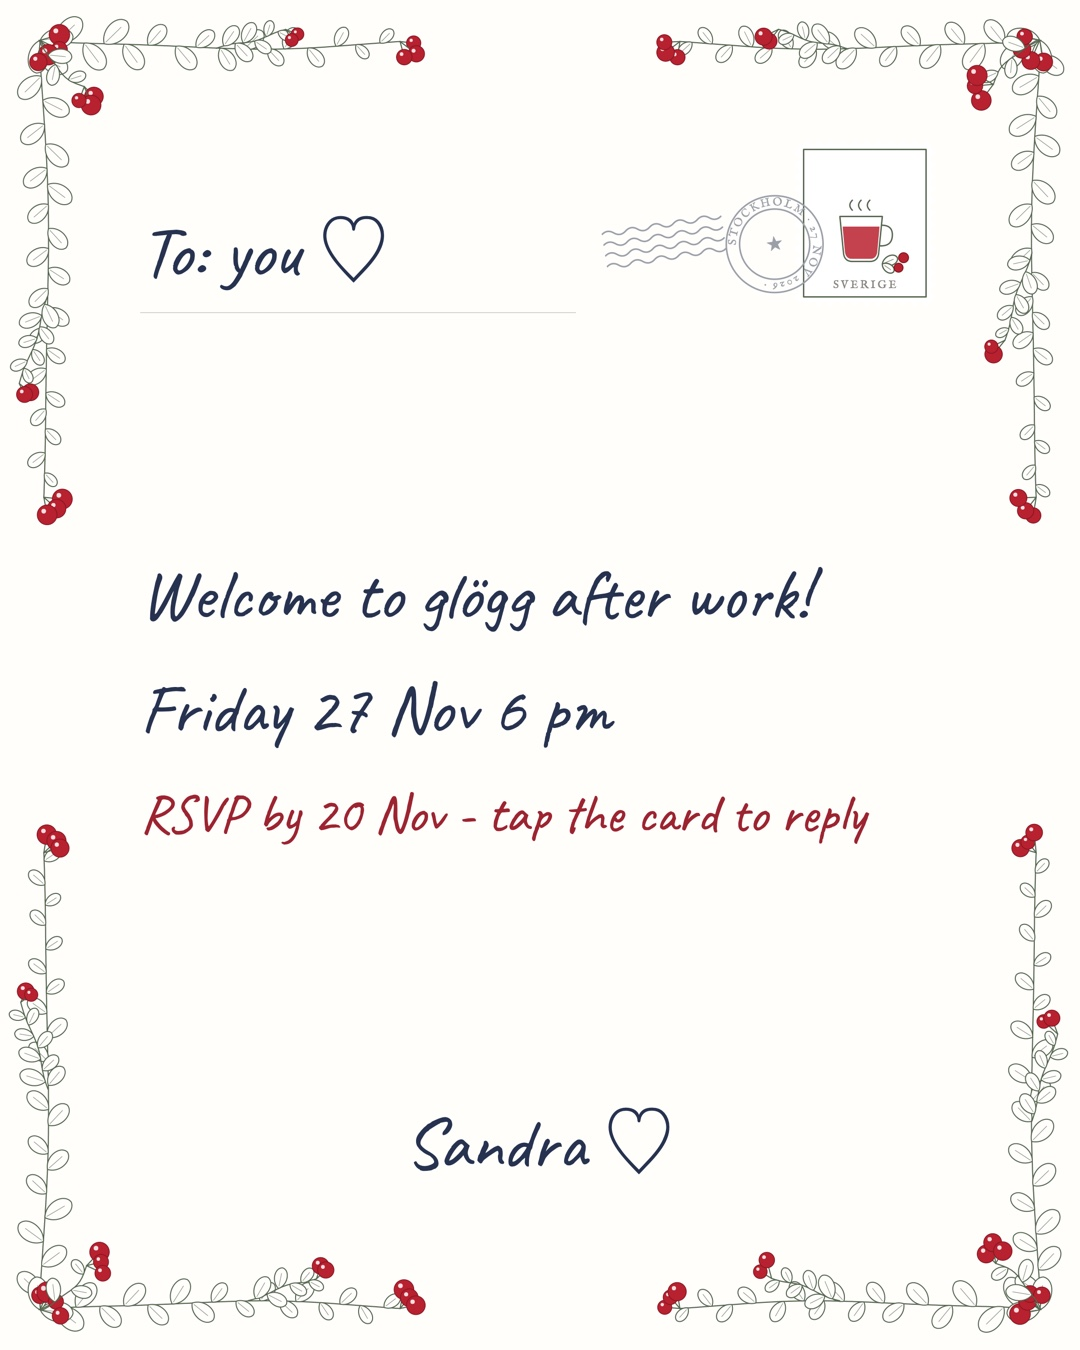
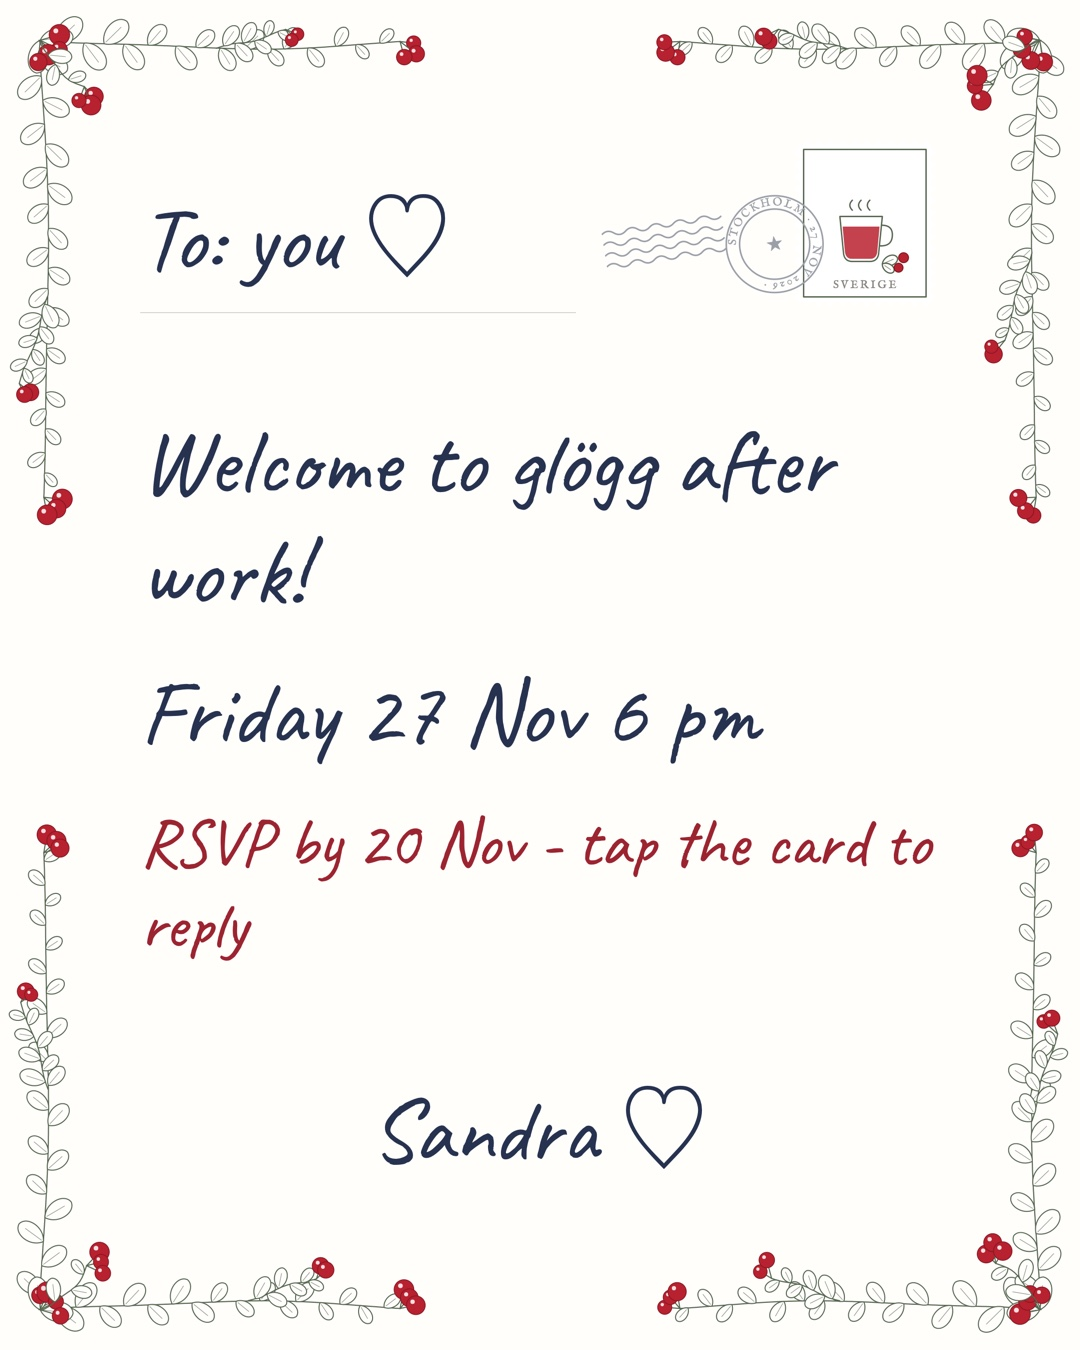
Bigger card text for phones

diff --git a/card.html b/card.html
@@ -16,12 +16,12 @@
   .post { display: flex; align-items: flex-start; flex: none; }
   .post .postmark { width: 230px; height: 121px; margin: 58px -46px 0 0; transform: rotate(-9deg); position: relative; z-index: 1; }
   .post .stamp { width: 150px; height: 178px; }
-  .line { font-size: 72px; padding-bottom: 10px; border-bottom: 1px solid var(--rule); }
+  .line { font-size: 90px; padding-bottom: 10px; border-bottom: 1px solid var(--rule); }
   .top .line { flex: 1; }
   .from { text-align: center; border-bottom: 0; }
-  .msg { font-size: 70px; line-height: 1.2; margin: auto 0; }
+  .msg { font-size: 92px; line-height: 1.2; margin: auto 0; }
   .msg .when { margin-top: 30px; }
-  .msg .osa { margin-top: 30px; font-size: 54px; color: var(--berry-ink); }
+  .msg .osa { margin-top: 34px; font-size: 68px; color: var(--berry-ink); }
 </style>
 </head>
 <body>

diff --git a/t/sandra-stmfy/index.html b/t/sandra-stmfy/index.html
@@ -8,7 +8,7 @@
 <meta property="og:type" content="website">
 <meta property="og:title" content="Glögg efter jobbet 🍷">
 <meta property="og:description" content="Fredag 27 november – tryck här för att svara">
-<meta property="og:image" content="https://sandragrennard-hash.github.io/glogg/t/sandra-stmfy/card.jpg?v=1793714378">
+<meta property="og:image" content="https://sandragrennard-hash.github.io/glogg/t/sandra-stmfy/card.jpg?v=1793714572">
 <meta property="og:image:width" content="1080">
 <meta property="og:image:height" content="1350">
 <meta name="twitter:card" content="summary_large_image">

diff --git a/index.html b/index.html
@@ -8,7 +8,7 @@
 <meta property="og:type" content="website">
 <meta property="og:title" content="Glögg efter jobbet 🍷">
 <meta property="og:description" content="Fredag 27 november – tryck här för att svara">
-<meta property="og:image" content="https://sandragrennard-hash.github.io/glogg/card-sv.jpg?v=8">
+<meta property="og:image" content="https://sandragrennard-hash.github.io/glogg/card-sv.jpg?v=9">
 <meta property="og:image:width" content="1080">
 <meta property="og:image:height" content="1350">
 <meta name="twitter:card" content="summary_large_image">

diff --git a/en/index.html b/en/index.html
@@ -8,7 +8,7 @@
 <meta property="og:type" content="website">
 <meta property="og:title" content="Glögg after work 🍷">
 <meta property="og:description" content="Friday 27 November – tap here to reply">
-<meta property="og:image" content="https://sandragrennard-hash.github.io/glogg/card-en.jpg?v=8">
+<meta property="og:image" content="https://sandragrennard-hash.github.io/glogg/card-en.jpg?v=9">
 <meta property="og:image:width" content="1080">
 <meta property="og:image:height" content="1350">
 <meta name="twitter:card" content="summary_large_image">
